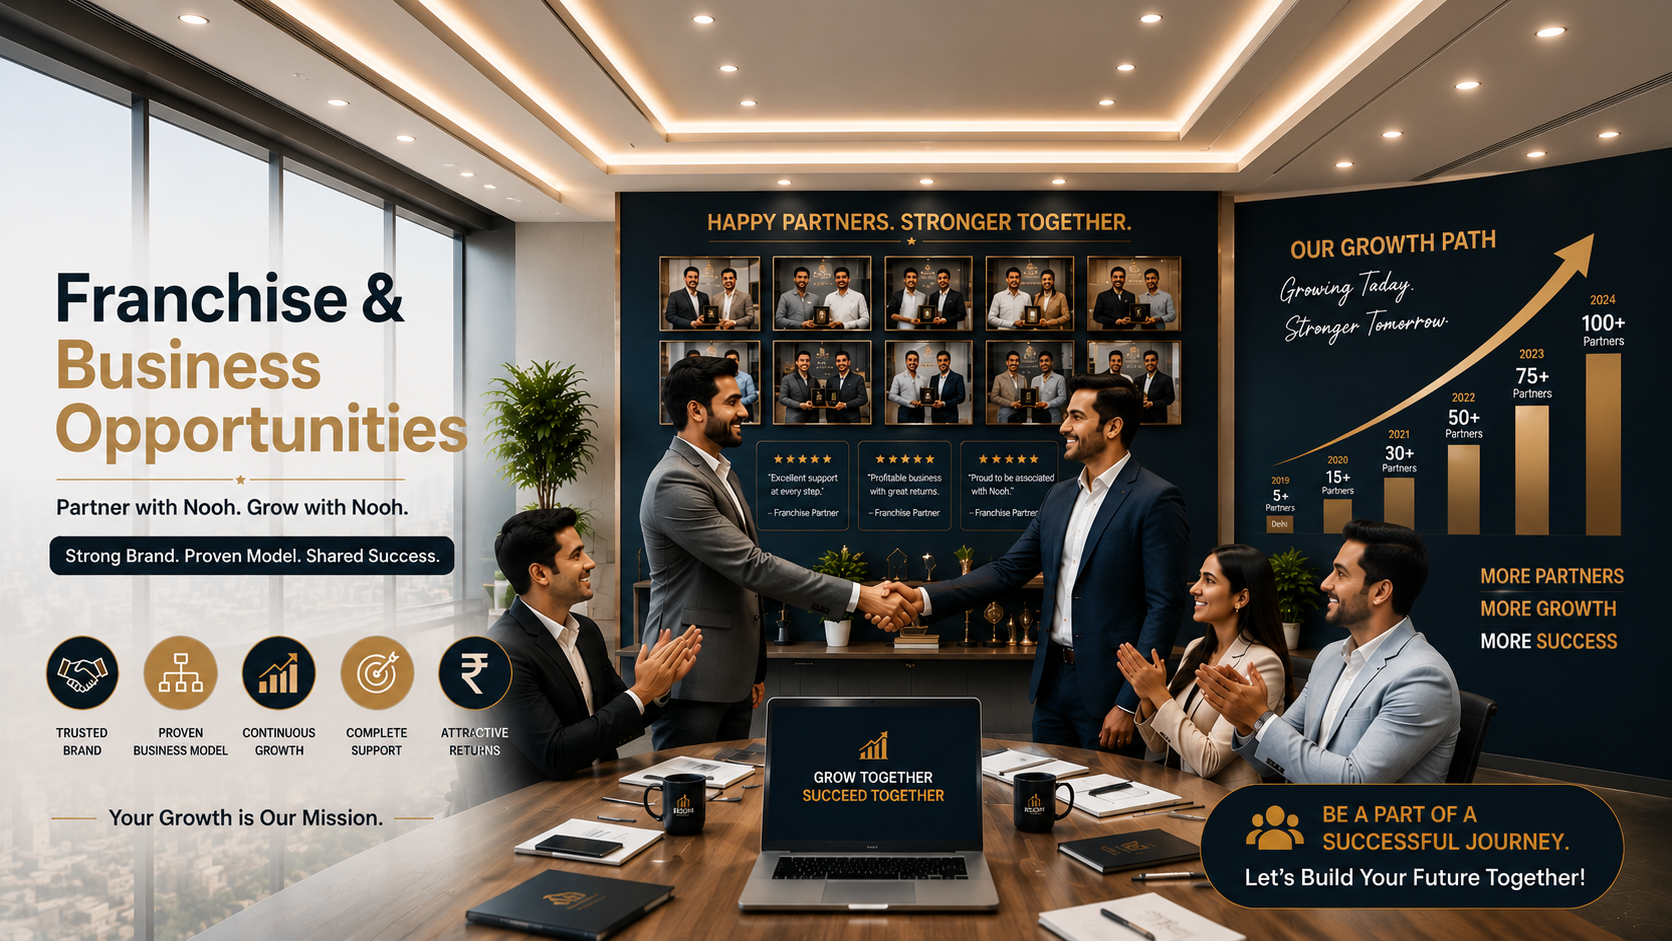
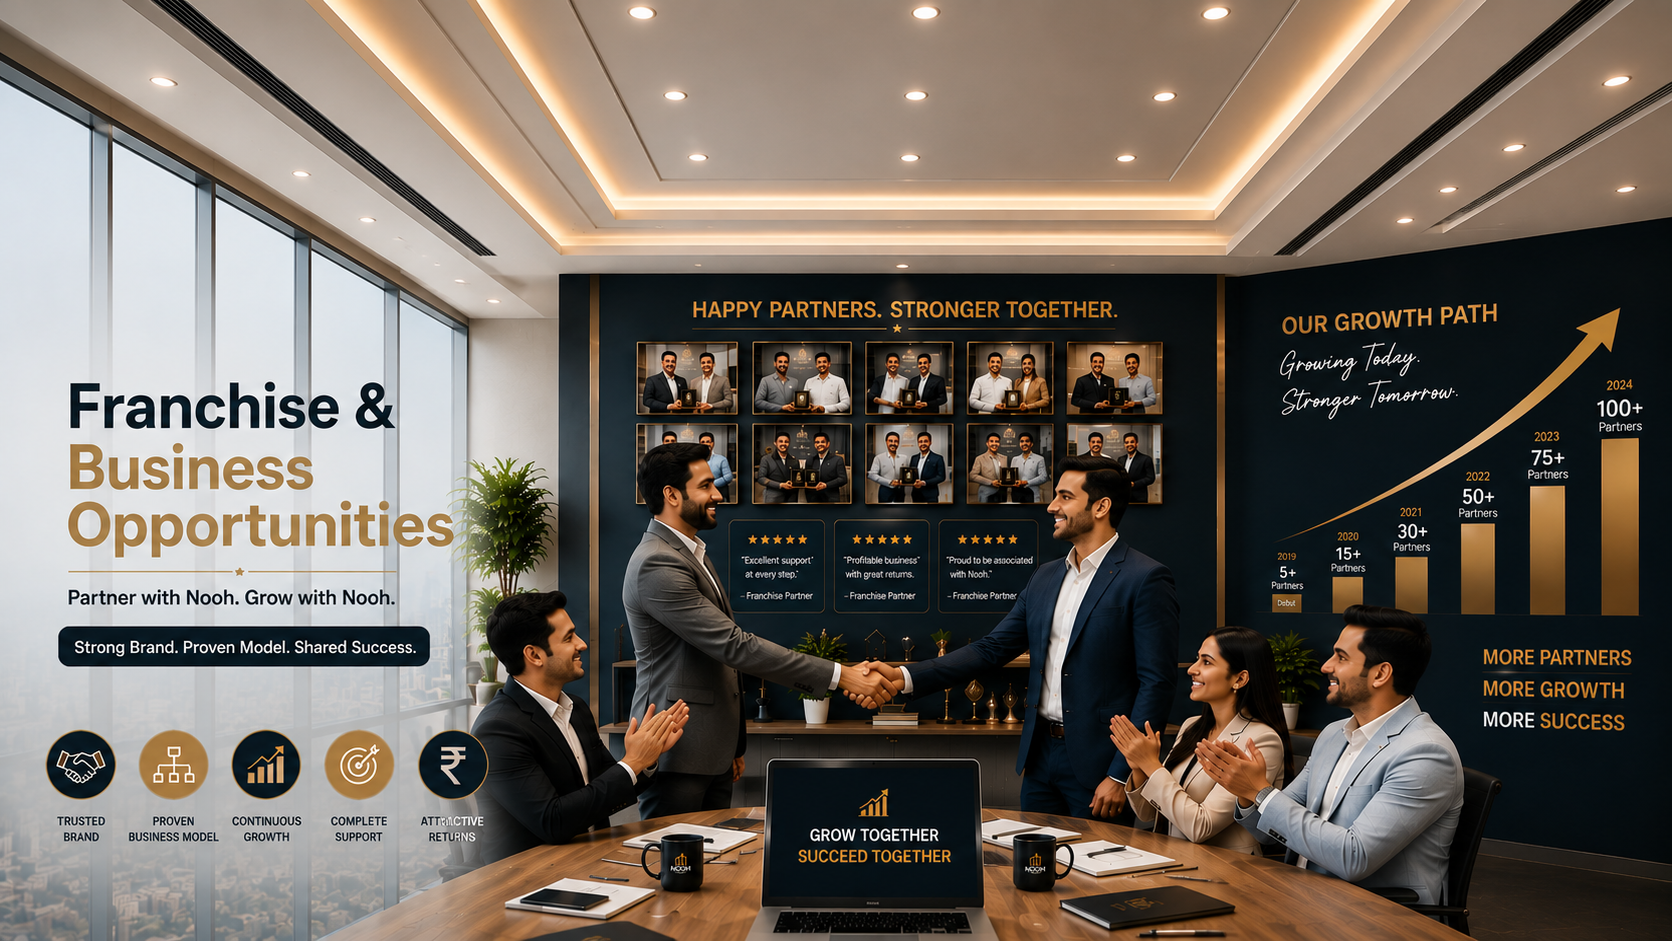
set franshise img

diff --git a/src/components/Franchise.jsx b/src/components/Franchise.jsx
@@ -38,12 +38,11 @@ const Franchise = () => {
 
         {/* Background Image */}
         <div className="absolute inset-0">
-
-          <img
-            src="/image/STRETCH-CEILING-BUSSINESS-DEALERSHIP.png"
-            alt="NOOH Luxury Interior"
-            className="h-full w-full object-cover"
-          />
+<img
+  src="/image/STRETCH-CEILING-BUSSINESS-DEALERSHIP.png"
+  alt="NOOH Luxury Interior"
+  className="h-full w-full object-cover object-bottom"
+/>
 
           {/* Dark Overlay */}
           <div className="absolute inset-0 bg-black/20" />
